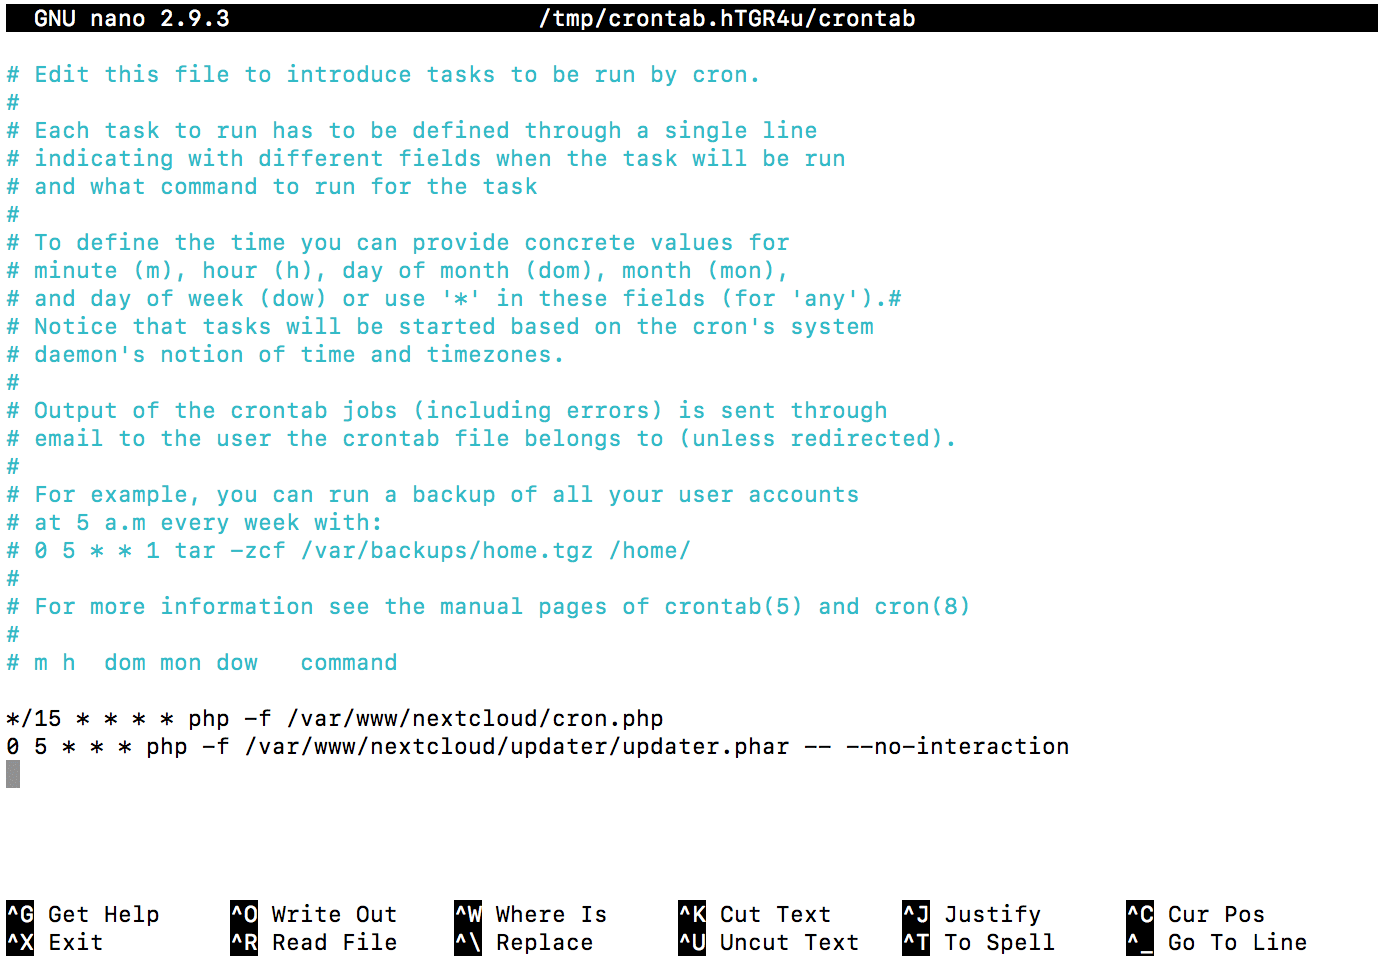
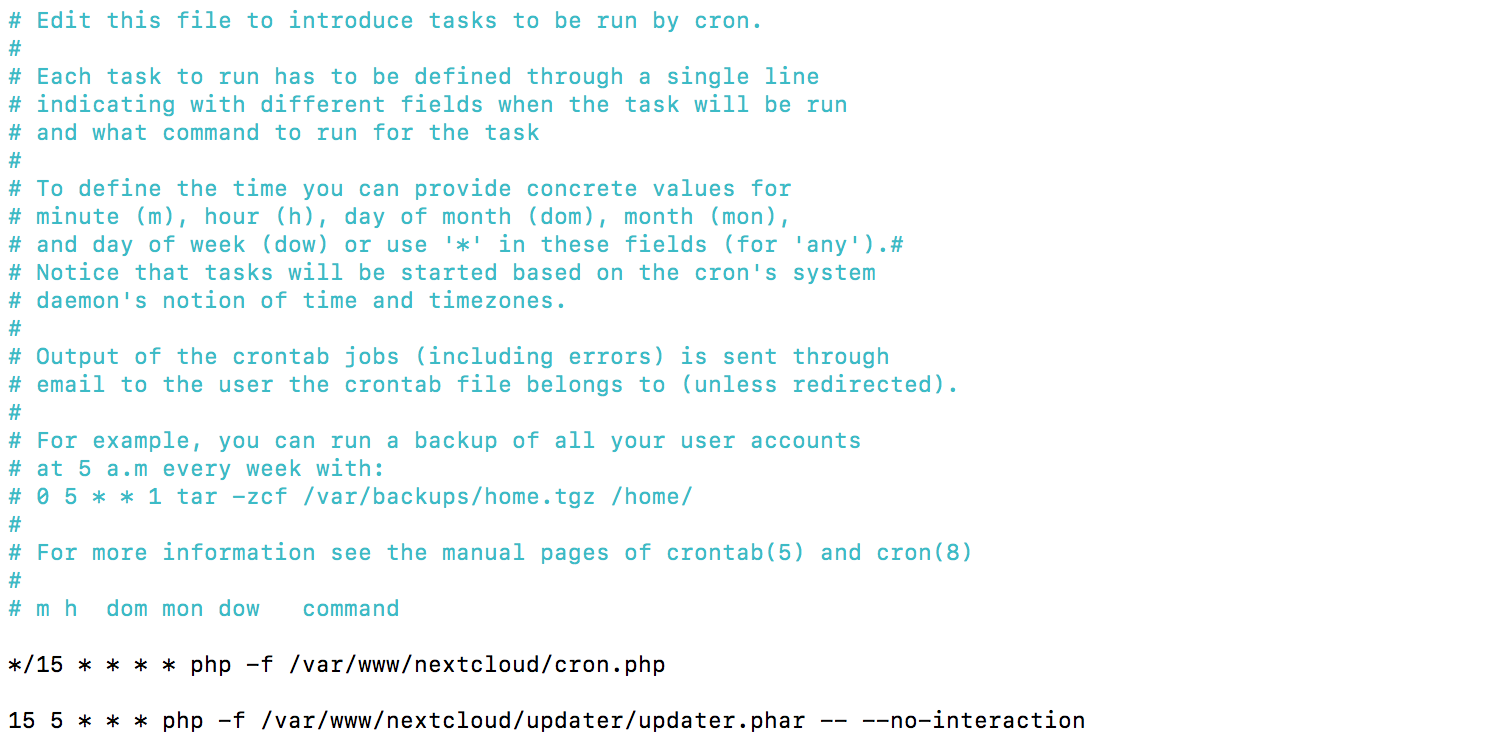
Add update warning

diff --git a/admin_manual/maintenance/update.rst b/admin_manual/maintenance/update.rst
@@ -228,11 +228,25 @@ To execute this, run the command with the ``--no-interaction`` option. (i.e.
 Setting up a cron job to automatically update Nextcloud
 -------------------------------------------------------
 
+.. warning::
+   Configuring a cron job to update automatically in the background is done at your own risk.
+
+   While efforts are made to ensure compatibility no assurances are given.
+
+   There is a trade off between quicker updates offering potentially better security vs a prompt awareness of issues when updating manually.
+
+   Major version updates involve more changes and may be riskier. Nextcloud defaults to the 'Stable' channel but also provides a 'Production' channel which will delay updates to the latest major release.
+
+   This setting can be configured from the Administration's Overview page in Nextcloud Settings.
+
+   .. image:: images/updater-channel.png
+   :class: select-channel-image
+
 Edit the cron file for the web server user Nextcloud runs under (in this case www-data):
 
 ``sudo -u www-data crontab -e``
 
-Add the following entry: 
+Add the following entry:
 
 ``15 5 * * * php -f /var/www/nextcloud/updater/updater.phar -- --no-interaction``
 
